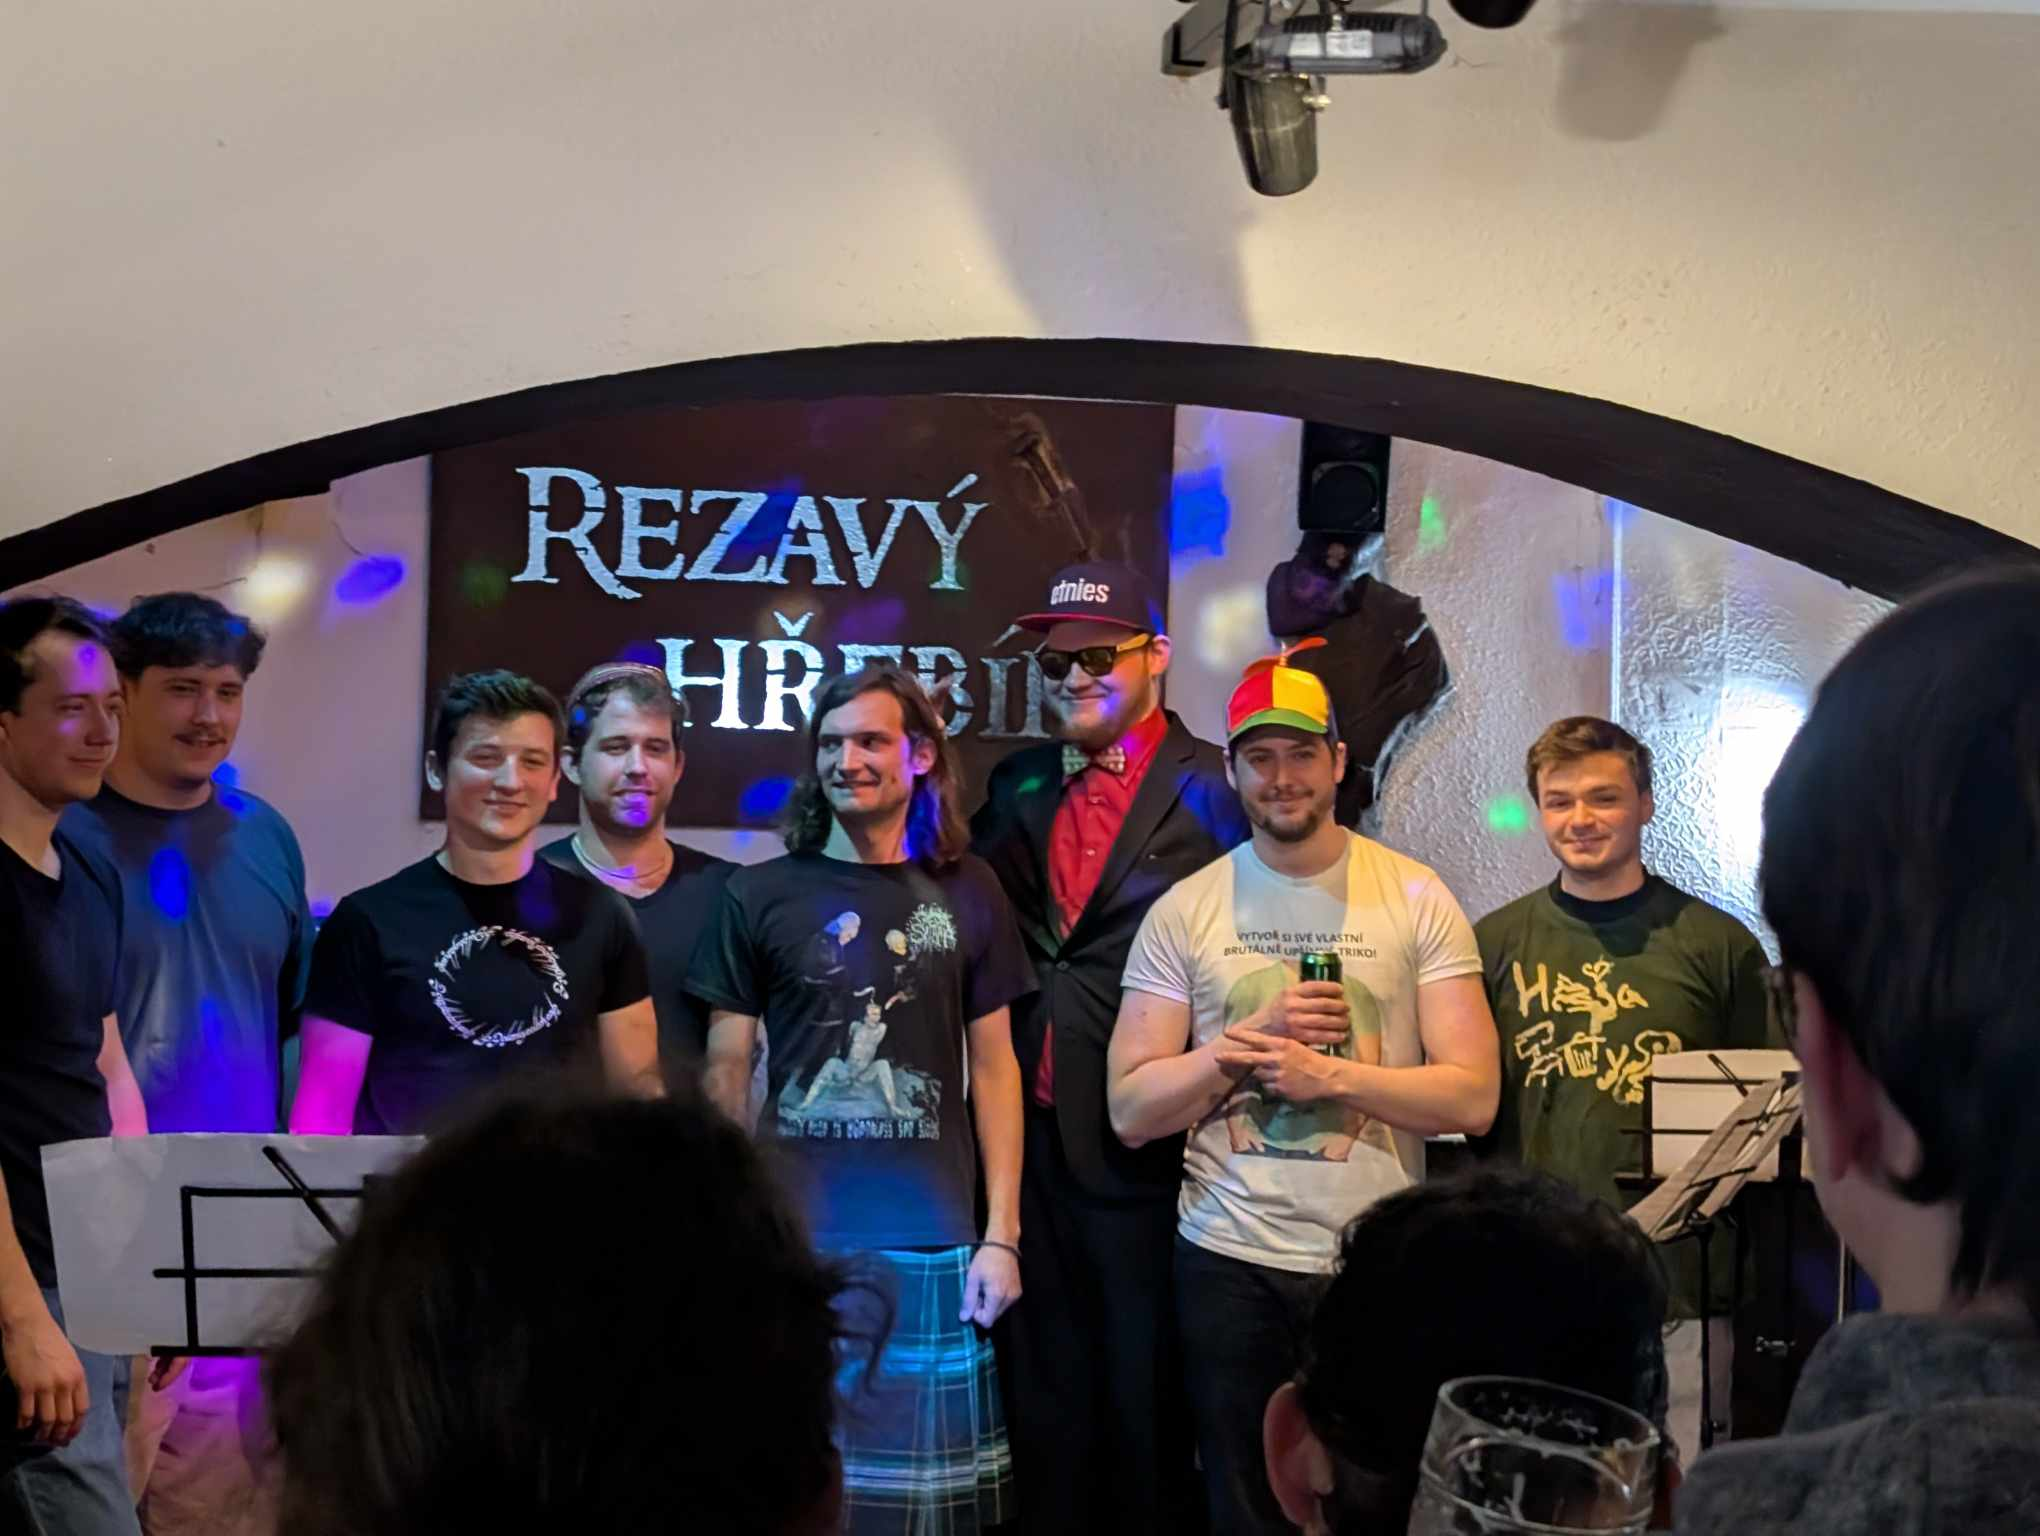
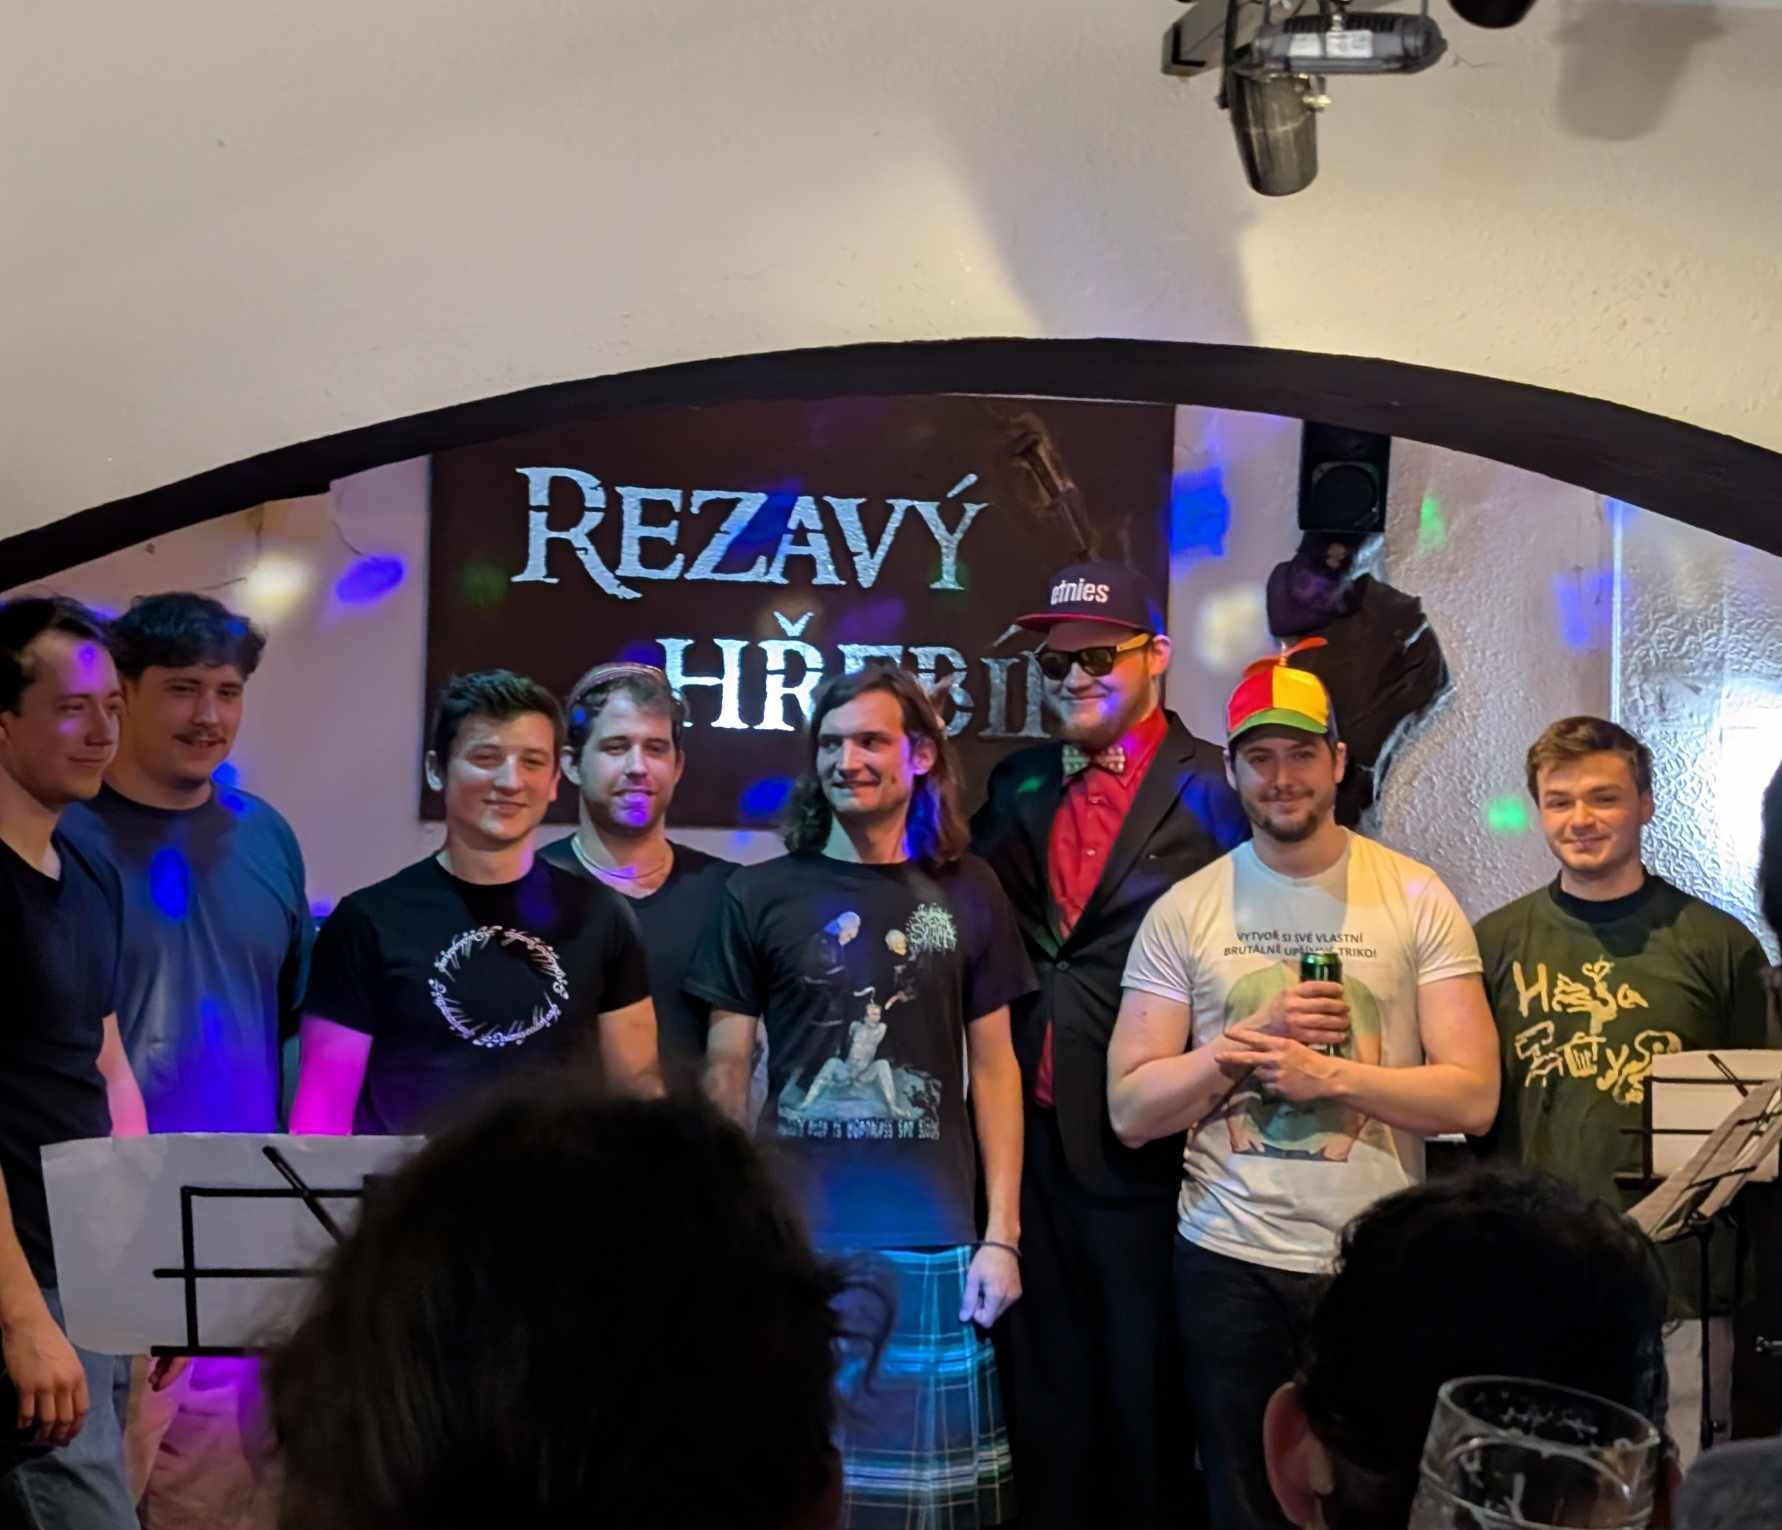
Add footer component, update styles, and refine image assets

diff --git a/assets/css/main.css b/assets/css/main.css
@@ -150,8 +150,8 @@ input, select, textarea {
 	}
 
 		a:hover {
-			border-bottom-color: transparent;
-			color: blanchedalmond !important;
+			border-bottom-color: black;
+			color: black !important;
 		}
 
 	strong, b {
@@ -2275,7 +2275,7 @@ input, select, textarea {
 
 		input[type="checkbox"]:focus + label:before,
 		input[type="radio"]:focus + label:before {
-			border-color: blanchedalmond;
+			border-color: black;
 			box-shadow: 0 0 0 1px #f2849e;
 		}
 
@@ -2350,16 +2350,19 @@ input, select, textarea {
 
 			.image.fit img {
 				width: 100%;
+                height: 100%;
 			}
 
 		.image.main {
 			display: block;
 			margin: 0 0 3em 0;
 			width: 100%;
+            height: 100%;
 		}
 
 			.image.main img {
 				width: 100%;
+                height: 100%;
 			}
 
 			@media screen and (max-width: 736px) {
@@ -2537,7 +2540,7 @@ input, select, textarea {
 			input[type="button"].primary:hover,
 			button.primary:hover,
 			.button.primary:hover {
-				background-color: blanchedalmond;
+				background-color: black;
 			}
 
 			input[type="submit"].primary:active,
@@ -2545,7 +2548,7 @@ input, select, textarea {
 			input[type="button"].primary:active,
 			button.primary:active,
 			.button.primary:active {
-				background-color: blanchedalmond;
+				background-color: black;
 			}
 
 		input[type="submit"].disabled, input[type="submit"]:disabled,
@@ -2594,6 +2597,7 @@ input, select, textarea {
 				position: relative;
 				display: block;
 				width: 100%;
+                height: 100%;
 				border-radius: 4px;
 				overflow: hidden;
 			}
@@ -2601,6 +2605,7 @@ input, select, textarea {
 				.tiles article > .image img {
 					display: block;
 					width: 100%;
+                    height: 100%;
 				}
 
 				.tiles article > .image:before {
@@ -2718,7 +2723,7 @@ input, select, textarea {
 			}
 
 			.tiles article.style4 > .image:before {
-				background-color: white;
+				background-color: black;
 			}
 
 			.tiles article.style5 > .image:before {

diff --git a/merch.html b/merch.html
@@ -46,7 +46,7 @@
 						<div class="col-6 col-12-medium">
  						<section class="box">
  							<h2>CD</h2>
-        <span class="image fit uniform"><img src="images/zehba.jpeg" alt="CD alba" /></span>
+        <span class="image fit"><img src="images/zehba.jpg" alt="CD alba" /></span>
  							<p>Fyzická vydání našich alb. Propojeno se sekcí <a href="alba.html">Alba</a> – například CD k albu „Škaredá žena“ a „Žehba Inspirationalis“.</p>
  							<ul>
  								<li>Škaredá žena – CD <em>(více o albu v sekci Alba)</em></li>
@@ -57,7 +57,7 @@
 						<div class="col-6 col-12-medium">
  						<section class="box">
  							<h2>Trička</h2>
-        <span class="image fit uniform"><img src="images/trika.jpg" alt="Trička Heja Boys" /></span>
+        <span class="image fit"><img src="images/trika_all.jpg" alt="Trička Heja Boys" /></span>
  							<p>Černá i barevná trička s motivy Heja Boys. Popis, velikosti a fotky doplníme.</p>
  						</section>
 						</div>
@@ -70,7 +70,9 @@
 						<div class="col-6 col-12-medium">
 							<section class="box">
 								<h2>Podtácky</h2>
-								<p>Pod sklenici i pod koleno. Vhodné do zkušebny i do obýváku.</p>
+                                <span class="image fit"><img src="images/podtacky_all.jpg" alt="CD alba" /></span>
+
+                                <p>Pod sklenici i pod koleno. Vhodné do zkušebny i do obýváku.</p>
 							</section>
 						</div>
 					</div>
@@ -120,5 +122,6 @@
 		<script src="assets/js/breakpoints.min.js"></script>
 		<script src="assets/js/util.js"></script>
 		<script src="assets/js/main.js"></script>
+		<script src="assets/js/footer.js"></script>
 	</body>
 </html>

diff --git a/index.html b/index.html
@@ -79,7 +79,7 @@
 								</article>
 								<article >
 									<span class="image">
-  								<img src="images/zehba.jpeg" alt="" />
+  								<img src="images/zehba.jpg" alt="" />
   							</span>
   							<a href="alba.html">
   								<h2>Alba</h2>
@@ -172,15 +172,14 @@
 							<section>
 								<h2>Follow</h2>
 								<ul class="icons">
-									<li><a href="https://hejaboys.bandcamp.com/album/ehba-inspiratorialis" class="icon solid fa-guitar"><span class="label">BandCamp</span></a></li>
-									<li><a href="https://www.instagram.com/hejaboys/" class="icon brands style2 fa-instagram"><span class="label">Instagram</span></a></li>
+									<li><a href="https://hejaboys.bandcamp.com/album/ehba-inspiratorialis"
+                                           class="icon solid style4 fa-guitar"><span class="label">BandCamp</span></a></li>
+									<li><a href="https://www.instagram.com/hejaboys/"
+                                           class="icon brands style4 fa-instagram"><span class="label">Instagram</span></a></li>
 									<li><a href="#"
-										   class="icon brands style2 fa-spotify"><span class="label">Spotify</span></a></li>
+										   class="icon brands style4 fa-spotify"><span class="label">Spotify</span></a></li>
 								</ul>
 							</section>
-							<ul class="copyright">
-								<li>&copy; Untitled. All rights reserved</li><li>Design: <a href="http://html5up.net">HTML5 UP</a></li>
-							</ul>
 						</div>
 					</footer>
 
@@ -213,6 +212,7 @@
 						});
 				});
 			</script>
+			<script src="assets/js/footer.js"></script>
 		
 		</body>
-	</html>
+		</html>

diff --git a/footer.html b/footer.html
@@ -1,0 +1,33 @@
+<footer id="footer">
+	<div class="inner">
+		<section>
+			<h2>Kontaktujte nás!</h2>
+			<form method="post" action="#">
+				<div class="fields">
+					<div class="field half">
+						<input type="text" name="name" id="name" placeholder="Name" />
+					</div>
+					<div class="field half">
+						<input type="email" name="email" id="email" placeholder="Email" />
+					</div>
+					<div class="field">
+						<textarea name="message" id="message" placeholder="Message"></textarea>
+					</div>
+				</div>
+				<ul class="actions">
+					<li><input type="submit" value="Send" class="primary" /></li>
+				</ul>
+			</form>
+		</section>
+		<section>
+			<h2>Follow</h2>
+			<ul class="icons">
+				<li><a href="https://hejaboys.bandcamp.com/album/ehba-inspiratorialis"
+					   class="icon solid style4 fa-guitar"><span class="label">BandCamp</span></a></li>
+				<li><a href="https://www.instagram.com/hejaboys/"
+					   class="icon brands style4 fa-instagram"><span class="label">Instagram</span></a></li>
+				<li><a href="#" class="icon brands style4 fa-spotify"><span class="label">Spotify</span></a></li>
+			</ul>
+		</section>
+	</div>
+</footer>

diff --git a/alba.html b/alba.html
@@ -72,7 +72,7 @@
 
 					<section class="box">
 						<h2>Žehba Inspirationalis</h2>
-						<span class="image fit uniform"><img src="images/zehba.jpeg" alt="Obal alba Žehba Inspirationalis" /></span>
+						<span class="image"><img src="images/zehba.jpg" alt="Obal alba Žehba Inspirationalis" /></span>
 						<p>Album dostupné online. Poslechněte si jej na Bandcampu.</p>
 						<ul class="actions">
 							<li><a href="https://hejaboys.bandcamp.com/album/ehba-inspiratorialis" class="button" target="_blank">Poslech na Bandcampu</a></li>
@@ -144,5 +144,6 @@
 		<script src="assets/js/breakpoints.min.js"></script>
 		<script src="assets/js/util.js"></script>
 		<script src="assets/js/main.js"></script>
+		<script src="assets/js/footer.js"></script>
 	</body>
 </html>

diff --git a/elements.html b/elements.html
@@ -412,6 +412,7 @@ print 'It took ' + i + ' iterations to sort the deck.';</code></pre>
 			<script src="assets/js/breakpoints.min.js"></script>
 			<script src="assets/js/util.js"></script>
 			<script src="assets/js/main.js"></script>
+			<script src="assets/js/footer.js"></script>
 
 	</body>
 </html>

diff --git a/generic.html b/generic.html
@@ -107,6 +107,7 @@
 			<script src="assets/js/breakpoints.min.js"></script>
 			<script src="assets/js/util.js"></script>
 			<script src="assets/js/main.js"></script>
-
-	</body>
-</html>
+			<script src="assets/js/footer.js"></script>
+		
+		</body>
+		</html>

diff --git a/akce.html b/akce.html
@@ -101,5 +101,6 @@
 		<script src="assets/js/breakpoints.min.js"></script>
 		<script src="assets/js/util.js"></script>
 		<script src="assets/js/main.js"></script>
+		<script src="assets/js/footer.js"></script>
 	</body>
 </html>

diff --git a/aktuality.html b/aktuality.html
@@ -100,5 +100,6 @@
 		<script src="assets/js/breakpoints.min.js"></script>
 		<script src="assets/js/util.js"></script>
 		<script src="assets/js/main.js"></script>
+		<script src="assets/js/footer.js"></script>
 	</body>
 </html>

diff --git a/onas.html b/onas.html
@@ -144,5 +144,6 @@
 		<script src="assets/js/breakpoints.min.js"></script>
 		<script src="assets/js/util.js"></script>
 		<script src="assets/js/main.js"></script>
+		<script src="assets/js/footer.js"></script>
 	</body>
 </html>

diff --git a/pichejte-nas.html b/pichejte-nas.html
@@ -102,5 +102,6 @@
 		<script src="assets/js/breakpoints.min.js"></script>
 		<script src="assets/js/util.js"></script>
 		<script src="assets/js/main.js"></script>
+		<script src="assets/js/footer.js"></script>
 	</body>
 </html>

diff --git a/hry.html b/hry.html
@@ -89,5 +89,6 @@
 		<script src="assets/js/breakpoints.min.js"></script>
 		<script src="assets/js/util.js"></script>
 		<script src="assets/js/main.js"></script>
+		<script src="assets/js/footer.js"></script>
 	</body>
 </html>
